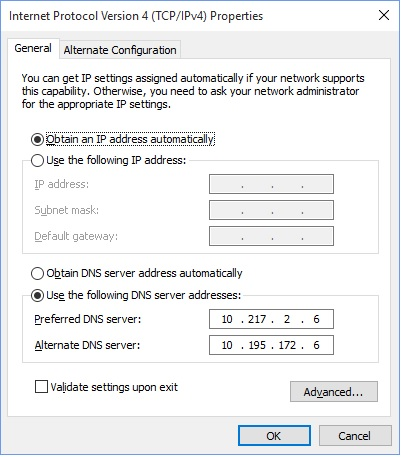
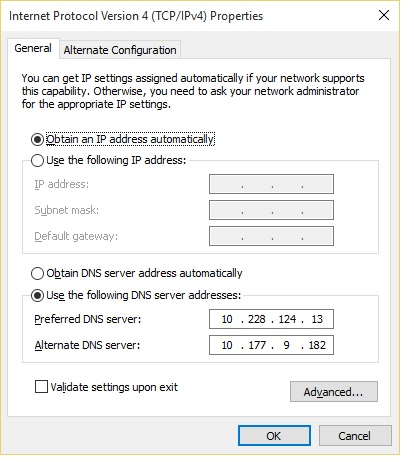
Update for new redundant co-located DNS servers

diff --git a/README.md b/README.md
@@ -61,7 +61,7 @@ Select "Internet Protocol Version 4 (TP/IP v4) and click "Properties" button:
 
 ![Left](images/6 - TCP Properties.jpg)
 
-Select "Use the following DNS server addresses:", enter 10.217.2.6, along with the backup DNS server 10.195.172.6 and click "Advanced":
+Select "Use the following DNS server addresses:", enter 10.228.124.13, along with the backup DNS server 10.177.9.182 and click "Advanced":
 
 ![Left](images/7 - DNS Settings.jpg)
 
